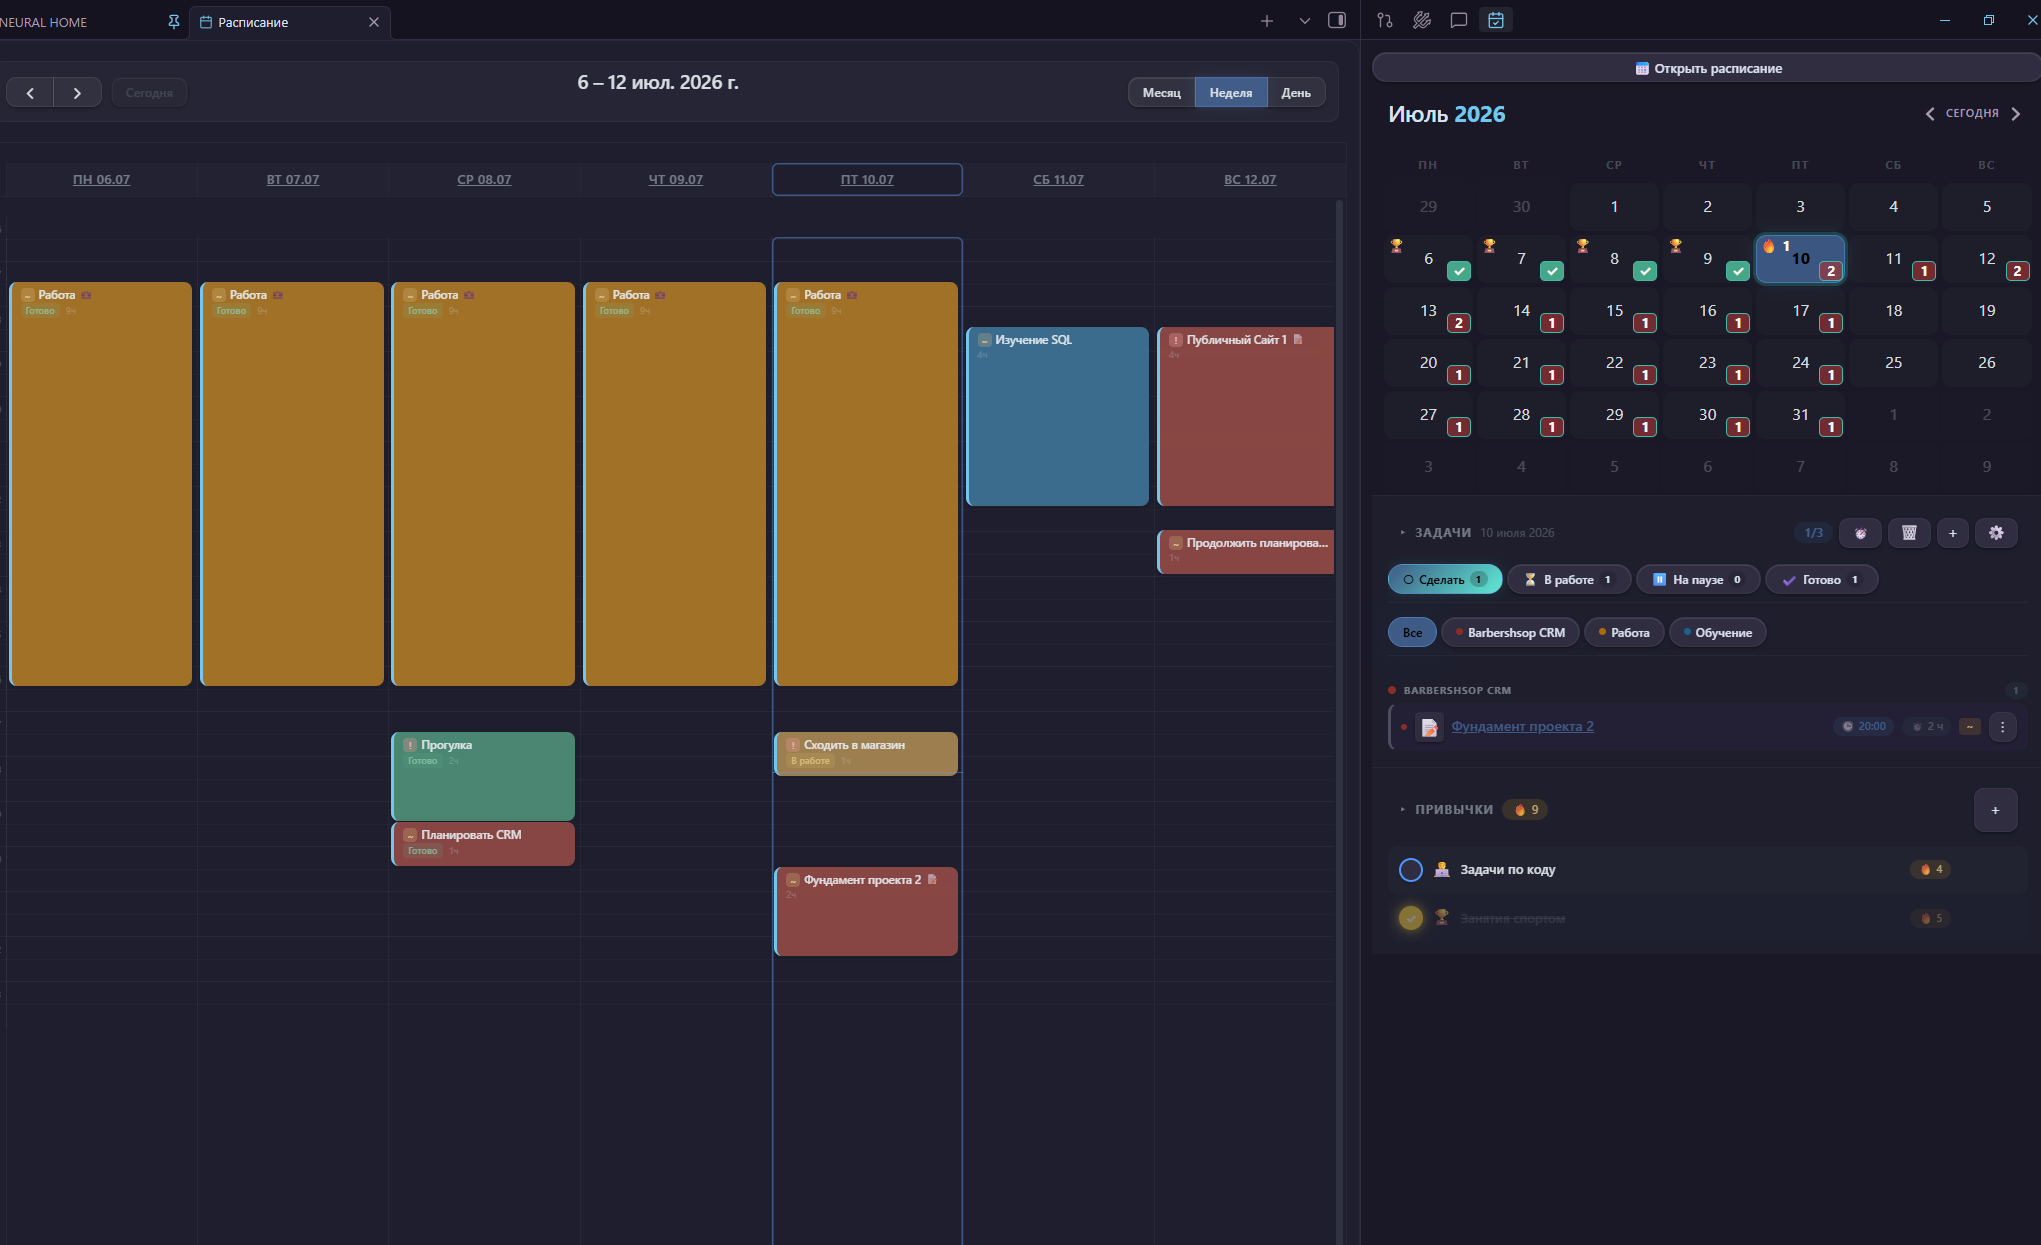
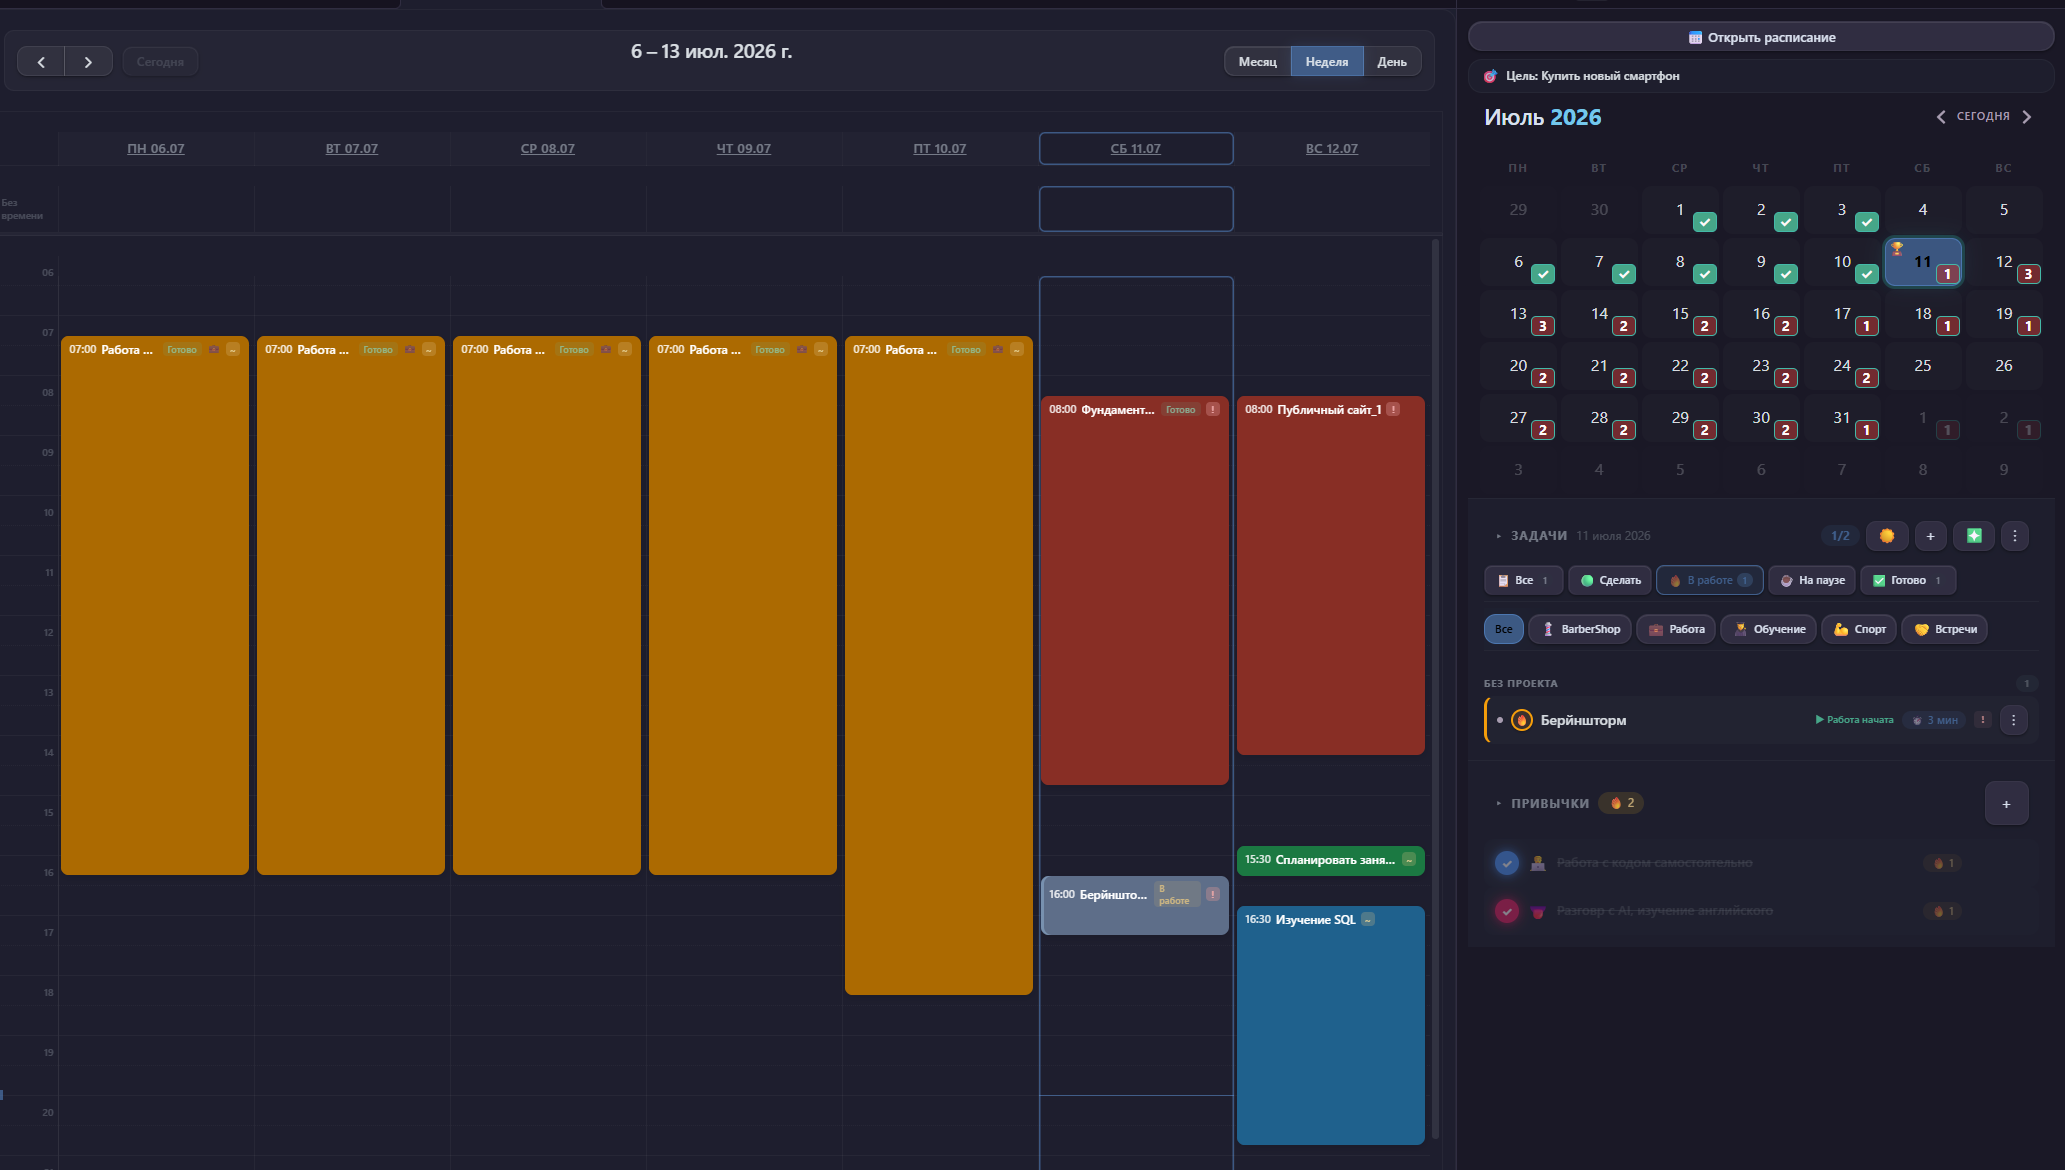
update readme

diff --git a/README.md b/README.md
@@ -14,7 +14,7 @@
 ## Что умеет плагин
 
 ### 📆 Календарь
-Месячный вид с индикаторами серий выполнения задач и Привычек.
+Месячный вид с индикаторами серий выполнения задач и Привычек(Цель месяца отображается из распределения финансовых средств)
 
 ### 🗓️ Расписание
 Полноценный планировщик на базе **FullCalendar**:
@@ -58,12 +58,13 @@ ___
 - Автоматический расчёт заработка
 - Бейдж "💼 Рабочая" в списке задач и расписании
 - Сумма заработка отображается в аналитике
+- Добавлена функция создания переработок
 
 ### 💰 Распределение финансовых средств
 Личный финансовый трекер:
 - **Общий баланс**: поступления, расходы, остаток
 - **Основной счёт**: обязательные расходы (еда, интернет, связь и т.д.)
-- **Цели на месяц**: Планируем цели на месяц
+- **Цели на месяц**: Планируем цели на месяц (так же будут отображаться в календаре для мотивации)
 - **Куда отложить**: планирование накоплений
 - **Правила распределения**: настройка приоритетов
 - Переключатель источника поступлений (*из аналитики* / *вручную*)
@@ -72,30 +73,21 @@ ___
 
 
 ### 📊 Аналитика
-- График активности за последние 12 недель (в стиле GitHub)
+- График активности за последние 12 недель
 - Визуализация логов по задачам и привычкам
 - Статистика: текущая серия, лучшая серия, процент выполнения за 30 дней
 - **Заработок**: за месяц, за год, помесячный график
 
-___
 
 
-<details>
-<summary>🔽Нажми, чтобы посмотреть скриншоты🔽</summary>
 
 ![alt text](image-1.png)
-
-___
-
-![alt text](image-2.png)
-
-</details>
 
 
 ___
 
 ### 🔔 Уведомления
-Нативные системные напоминания о задачах (от 1 до 60 минут до начала) и оповещения о просроченных делах.
+Нативные системные напоминания о задачах (от 1 до 60 минут до начала) и оповещения о просроченных делах и дедлайнах.
 
 ### 🔄 Синхронизация
 Все данные хранятся в файле `calendar-data.json` в корне хранилища. Плагин полностью совместим с **Obsidian Sync** и **Remotely Save** — ваши задачи и привычки всегда под рукой на любом устройстве.